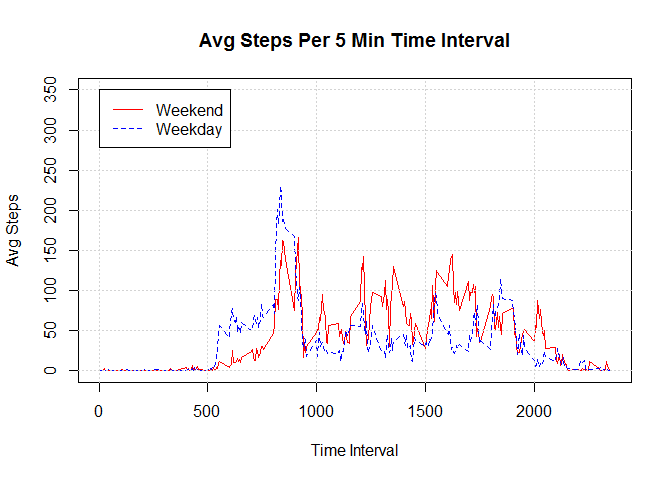
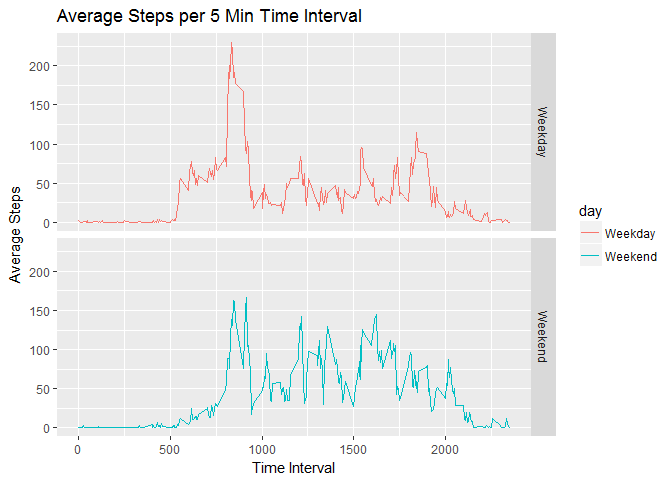
adding ggplot panels because I missed

diff --git a/PA1_template.html b/PA1_template.html
@@ -275,14 +275,26 @@ head(stepsByDayImp)</code></pre>
 <h2>Are there differences in activity patterns between weekdays and weekends?</h2>
 <pre class="r"><code>activityWoNA$wd &lt;-weekdays(activityWoNA$date, abbreviate = TRUE)
 activityWoNA&lt;-sqldf(&quot;select *, case when wd in ('Sat', 'Sun') then 1 else 0 end as isWeekend from activityWoNA&quot;)
+dayInterval&lt;-sqldf(&quot;select CASE WHEN isWeekend = 1 then 'Weekend' else 'Weekday' end as day, interval, avg(steps) as avgSteps from activityWoNA group by CASE WHEN isWeekend = 1 then 'Weekend' else 'Weekday' end, interval&quot;)
 weekendInterval&lt;-sqldf(&quot;select interval, avg(steps) as avgSteps from activityWoNA where isWeekend=1 group by interval&quot;)
 weekdayInterval&lt;-sqldf(&quot;select interval, avg(steps) as avgSteps from activityWoNA where isWeekend = 0 group by interval&quot;)
 
-plot(weekendInterval$interval, weekendInterval$avgSteps,type=&quot;l&quot;, main=&quot;Avg Steps Per 5 Min Time Interval&quot;, xlab=&quot;Time Interval&quot;, ylab=&quot;Avg Steps&quot;,col=&quot;red&quot;, ylim=c(0,350))
-  lines(weekdayInterval$interval, weekdayInterval$avgSteps,type=&quot;l&quot;, col=&quot;blue&quot;, lty=2)
-  grid(NULL,NULL,col=&quot;lightgrey&quot;,lty=&quot;dotted&quot;)
-  legend(0,350, legend=c(&quot;Weekend&quot;, &quot;Weekday&quot;), col=c(&quot;red&quot;, &quot;blue&quot;), lty=1:2 )</code></pre>
[1 lines of base64/hex data omitted]
+library(ggplot2)
+qplot(interval, avgSteps, data=dayInterval,
+      facets = day~.,col=day,
+      geom=&quot;line&quot;,
+      main=&quot;Average Steps per 5 Min Time Interval&quot;,
+      xlab = &quot;Time Interval&quot;,
+      ylab = &quot;Average Steps&quot;)</code></pre>
[1 lines of base64/hex data omitted]
+<pre class="r"><code>#par(mfrow=c(2,1))
+#plot(weekendInterval$interval, weekendInterval$avgSteps,type=&quot;l&quot;, main=&quot;Weekend Avg Steps Per 5 Min #Time Interval&quot;, xlab=&quot;Time Interval&quot;, ylab=&quot;Avg Steps&quot;,col=&quot;red&quot;, ylim=c(0,250))
+#grid(NULL,NULL,col=&quot;lightgrey&quot;,lty=&quot;dotted&quot;)
+
+#plot(weekdayInterval$interval, weekdayInterval$avgSteps,type=&quot;l&quot;, col=&quot;blue&quot;, lty=2, main=&quot;Weekday Avg #Steps per 5 Min Time Interval&quot;, xlab=&quot;Time Interval&quot;, ylab=&quot;Avg Steps&quot;, ylim=c(0,250))
+#grid(NULL,NULL,col=&quot;lightgrey&quot;,lty=&quot;dotted&quot;)
+  
+  #legend(0,350, legend=c(&quot;Weekend&quot;, &quot;Weekday&quot;), col=c(&quot;red&quot;, &quot;blue&quot;), lty=1:2 )</code></pre>
 <p><em>Weekend vs Weekday walking patterns seem to indicate that weekend walking is more steady during the intervals while there are definte peaks of walking during weekedays</em></p>
 </div>
 

diff --git a/PA1_template.md b/PA1_template.md
@@ -287,16 +287,31 @@ median(stepsByDayImp$sumSteps)
 ```r
 activityWoNA$wd <-weekdays(activityWoNA$date, abbreviate = TRUE)
 activityWoNA<-sqldf("select *, case when wd in ('Sat', 'Sun') then 1 else 0 end as isWeekend from activityWoNA")
+dayInterval<-sqldf("select CASE WHEN isWeekend = 1 then 'Weekend' else 'Weekday' end as day, interval, avg(steps) as avgSteps from activityWoNA group by CASE WHEN isWeekend = 1 then 'Weekend' else 'Weekday' end, interval")
 weekendInterval<-sqldf("select interval, avg(steps) as avgSteps from activityWoNA where isWeekend=1 group by interval")
 weekdayInterval<-sqldf("select interval, avg(steps) as avgSteps from activityWoNA where isWeekend = 0 group by interval")
 
-plot(weekendInterval$interval, weekendInterval$avgSteps,type="l", main="Avg Steps Per 5 Min Time Interval", xlab="Time Interval", ylab="Avg Steps",col="red", ylim=c(0,350))
-  lines(weekdayInterval$interval, weekdayInterval$avgSteps,type="l", col="blue", lty=2)
-  grid(NULL,NULL,col="lightgrey",lty="dotted")
-  legend(0,350, legend=c("Weekend", "Weekday"), col=c("red", "blue"), lty=1:2 )
+library(ggplot2)
+qplot(interval, avgSteps, data=dayInterval,
+      facets = day~.,col=day,
+      geom="line",
+      main="Average Steps per 5 Min Time Interval",
+      xlab = "Time Interval",
+      ylab = "Average Steps")
 ```
 
 ![](PA1_template_files/figure-html/unnamed-chunk-12-1.png)<!-- -->
+
+```r
+#par(mfrow=c(2,1))
+#plot(weekendInterval$interval, weekendInterval$avgSteps,type="l", main="Weekend Avg Steps Per 5 Min #Time Interval", xlab="Time Interval", ylab="Avg Steps",col="red", ylim=c(0,250))
+#grid(NULL,NULL,col="lightgrey",lty="dotted")
+
+#plot(weekdayInterval$interval, weekdayInterval$avgSteps,type="l", col="blue", lty=2, main="Weekday Avg #Steps per 5 Min Time Interval", xlab="Time Interval", ylab="Avg Steps", ylim=c(0,250))
+#grid(NULL,NULL,col="lightgrey",lty="dotted")
+  
+  #legend(0,350, legend=c("Weekend", "Weekday"), col=c("red", "blue"), lty=1:2 )
+```
 
 
 *Weekend vs Weekday walking patterns seem to indicate that weekend walking is more steady during the intervals while there are definte peaks of walking during weekedays*
